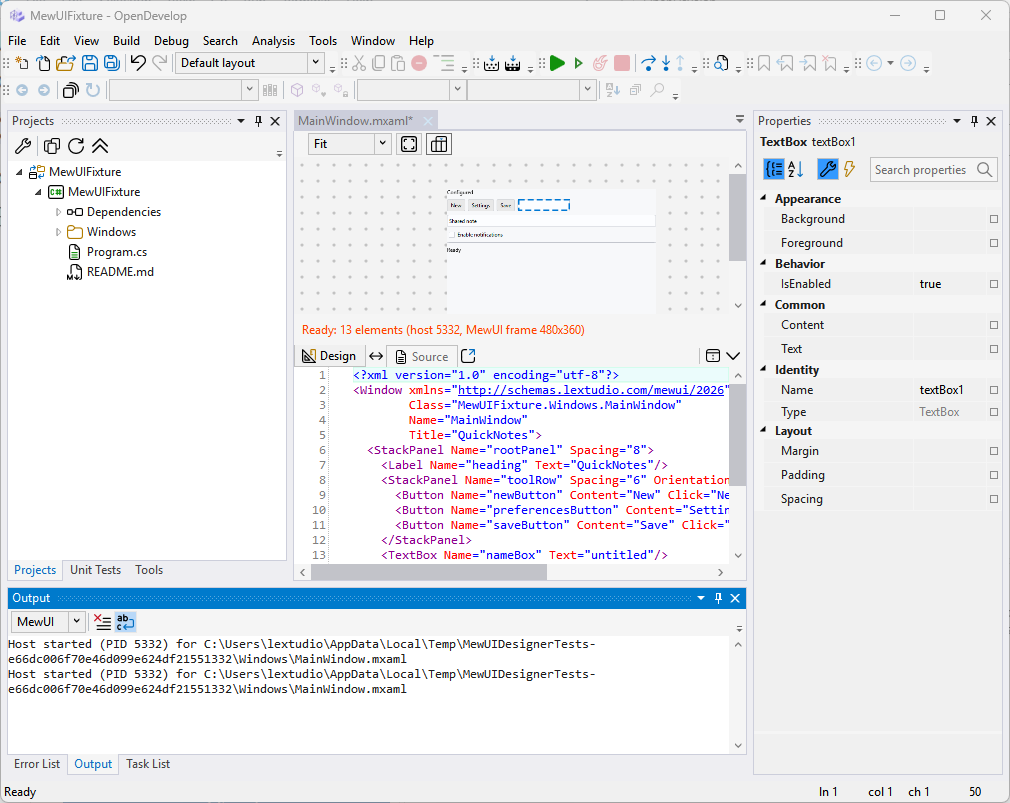
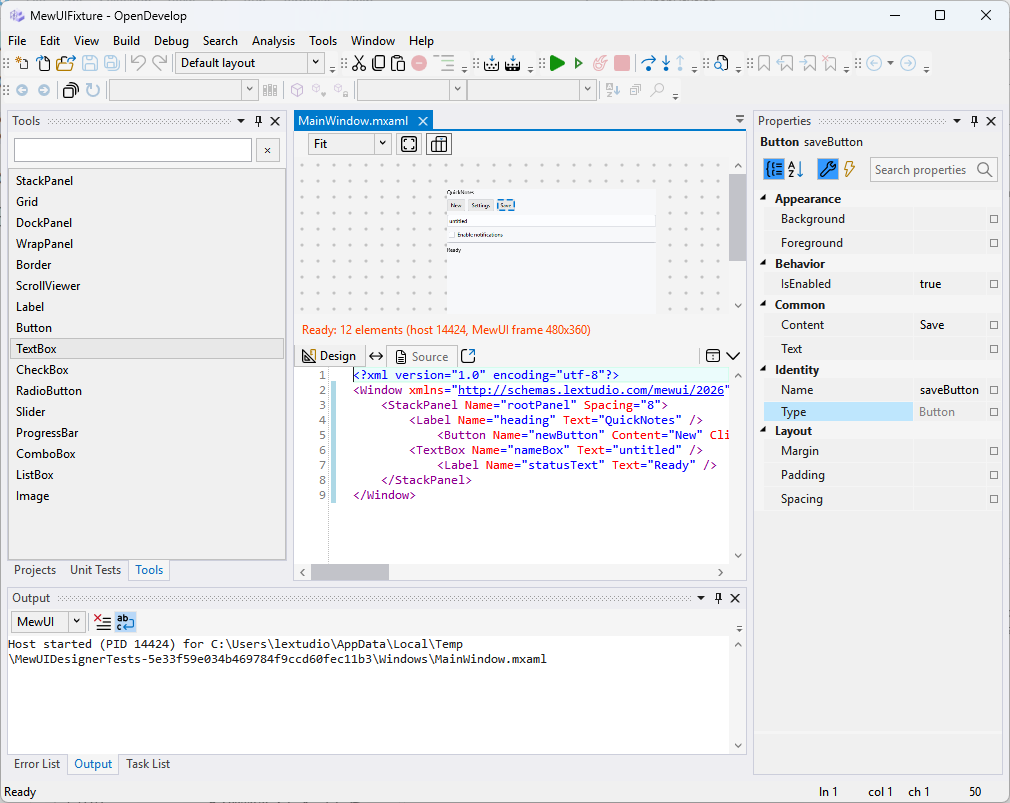
Stop the split layout from re-loading the file on every view switch
The split layout hands the file between the live source editor and the designer on
every active-view switch, and the designer views treated each handover as a real
change.

MewUI was the visible case: re-opening the host document with text the host had
itself just produced zeroed its undo history, because session/open resets
UndoDepth. Switching to the source pane and back therefore discarded the
designer's undo stack. It re-opens only when the source text actually differs now.

RecoverableDesignerDocumentHostClient gained RecoveryText and
CurrentTextOrRecovery. The last recovery snapshot is the newest source the child
accepted, so a view can hand over its content while the host is down - mid-restart,
or crashed before recovery - where a flush would throw. That is the path the MewUI
save takes, because restarting the host moves focus into the source pane and saves
this view first.

AvalonEdit's read-only flag was read with File.GetAttributes on a file that can
already be gone, deleted or moved while open, which failed the view switch
outright. The disk is consulted only when the file exists; the content had already
come from the stream.

diff --git a/src/AddIns/DisplayBindings/MewUIDesigner/MewUIDesignerViewContent.cs b/src/AddIns/DisplayBindings/MewUIDesigner/MewUIDesignerViewContent.cs
@@ -186,10 +186,14 @@ public sealed class MewUIDesignerViewContent : AbstractViewContentHandlingLoadEr
 	DesignerElementNode? NearestContainer(DesignerElementNode n) { if (state.Tree == null) return null; for (var current = n; ; ) { if (IsContainer(current)) return current; var parent = Flatten(state.Tree).FirstOrDefault(p => p.Children.Contains(current)); if (parent == null) return null; current = parent; } }
 	static string Value(DesignerElementNode n, string key, string fallback) => n.Properties.FirstOrDefault(p => p.Name == key)?.Value ?? fallback; static IEnumerable<DesignerElementNode> Flatten(DesignerElementNode n) => new[] { n }.Concat(n.Children.SelectMany(Flatten));
 	DesignerDocumentSnapshot Snapshot(string text, long version) => new() { Version = version, PrimaryFileName = PrimaryFile?.FileName.ToString() ?? "", DesignerFileName = mxamlFile.FileName.ToString(), Files = { new DesignerSourceFileSnapshot { FileName = mxamlFile.FileName.ToString(), Kind = "MewUI", Text = text } } };
-	protected override void LoadInternal(OpenedFile file, Stream stream) { using var reader = new StreamReader(stream, leaveOpen: true); loadedMxamlText = reader.ReadToEnd(); if (host == null) { host = MewUIDesignerHostClient.CreateAsync().GetAwaiter().GetResult(); host.Recovered += HostRecovered; } state = host.OpenAsync(Snapshot(loadedMxamlText, 1)).GetAwaiter().GetResult(); Rebuild();
+	// The split layout hands the file between the live source editor and this designer on every
+	// active-view switch. Re-opening the host document for text it produced itself reset its undo
+	// history (session/open zeroes UndoDepth), so only a real source change re-opens.
+	protected override void LoadInternal(OpenedFile file, Stream stream) { using var reader = new StreamReader(stream, leaveOpen: true); var text = reader.ReadToEnd(); if (host != null && host.IsAlive && state.Accepted && string.Equals(text, loadedMxamlText, StringComparison.Ordinal)) return; loadedMxamlText = text; if (host == null) { host = MewUIDesignerHostClient.CreateAsync().GetAwaiter().GetResult(); host.Recovered += HostRecovered; } state = host.OpenAsync(Snapshot(loadedMxamlText, 1)).GetAwaiter().GetResult(); Rebuild();
 		OutputChannel.Write("MewUI", $"Host started (PID {host.ProcessId}) for {mxamlFile.FileName}"); }
 	protected override void SaveInternal(OpenedFile file, Stream stream) { // Single authoritative document: the host's canonical MXAML is the only thing we persist.
-	  var text = host == null ? loadedMxamlText : host.FlushAsync(state.Version).GetAwaiter().GetResult().Files[0].Text; using var writer = new StreamWriter(stream, new System.Text.UTF8Encoding(false), leaveOpen: true); writer.Write(text); writer.Flush(); loadedMxamlText = text; }
+	  // The host can be down here: a restart moves focus into the source pane, and that view switch saves this view first.
+		var text = host == null ? loadedMxamlText : host.CurrentTextOrRecovery(state.Version, loadedMxamlText); using var writer = new StreamWriter(stream, new System.Text.UTF8Encoding(false), leaveOpen: true); writer.Write(text); writer.Flush(); loadedMxamlText = text; }
 	void HostRecovered(object? sender, DesignerSessionState recovered) {
 		// Recovery runs on the broker's worker thread while the initiating command may be
 		// synchronously waiting on the UI thread. OutputChannel is UI-affine, so writing before

diff --git a/src/Main/Designer/Designer.Remote/RecoverableDesignerDocumentHostClient.cs b/src/Main/Designer/Designer.Remote/RecoverableDesignerDocumentHostClient.cs
@@ -16,6 +16,28 @@ namespace ICSharpCode.SharpDevelop.Designer.Remote
 
 		protected DesignerDocumentSnapshot? RecoverySnapshot { get; private set; }
 
+		/// <summary>The primary file's text in the last recovery snapshot - the latest source the
+		/// child accepted, refreshed after every accepted mutation. A view uses it to hand over its
+		/// content while the host is down (mid-restart, or crashed before recovery), when a flush
+		/// would throw.</summary>
+		public string? RecoveryText => RecoverySnapshot?.Files.Count > 0 ? RecoverySnapshot.Files[0].Text : null;
+
+		/// <summary>The current source: flushed from the child when it is running, otherwise the
+		/// last recovery snapshot, otherwise <paramref name="fallback"/>.</summary>
+		public string CurrentTextOrRecovery(long version, string fallback)
+		{
+			if (IsAlive) {
+				try {
+					var edit = Document.FlushAsync(version).GetAwaiter().GetResult();
+					// No files means no changed source since the last capture (see CaptureRecoverySnapshotAsync).
+					if (edit.Files.Count > 0) return edit.Files[0].Text;
+				} catch (System.IO.IOException) when (!IsAlive) {
+					// The host went down between the check and the flush: same as not running.
+				}
+			}
+			return RecoveryText ?? fallback;
+		}
+
 		/// <summary>Records the parent-owned source authority for adapters whose open/update wire
 		/// payload extends the common snapshot (for example viewport-aware markup hosts).</summary>
 		protected void SetRecoverySnapshot(DesignerDocumentSnapshot snapshot)

diff --git a/src/AddIns/DisplayBindings/AvalonEdit.AddIn/Src/AvalonEditViewContent.cs b/src/AddIns/DisplayBindings/AvalonEdit.AddIn/Src/AvalonEditViewContent.cs
@@ -152,7 +152,11 @@ namespace ICSharpCode.AvalonEdit.AddIn
 				return;
 			isLoading = true;
 			try {
-				if (!file.IsUntitled) {
+				// The content comes from the stream; the disk is consulted only for the read-only flag.
+				// The file can be gone by now (deleted or moved while open), and this also runs on a
+				// plain view switch - in the split layout, a focus change into the source pane - so a
+				// missing file keeps the editor's current read-only state instead of failing the switch.
+				if (!file.IsUntitled && File.Exists(file.FileName)) {
 					codeEditor.PrimaryTextEditor.IsReadOnly = (File.GetAttributes(file.FileName) & FileAttributes.ReadOnly) == FileAttributes.ReadOnly;
 				}
 				
